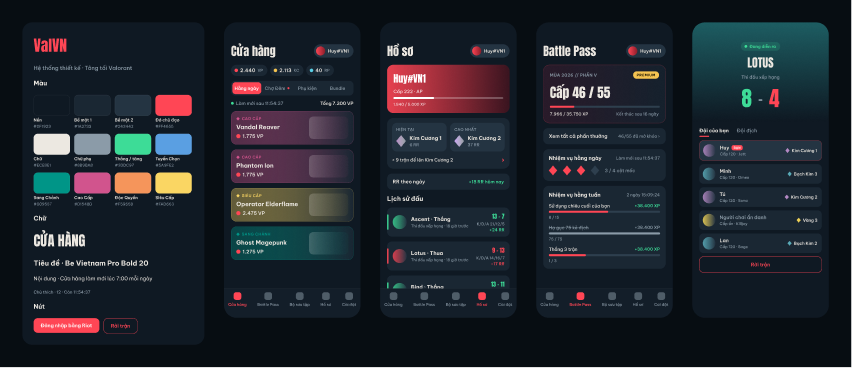
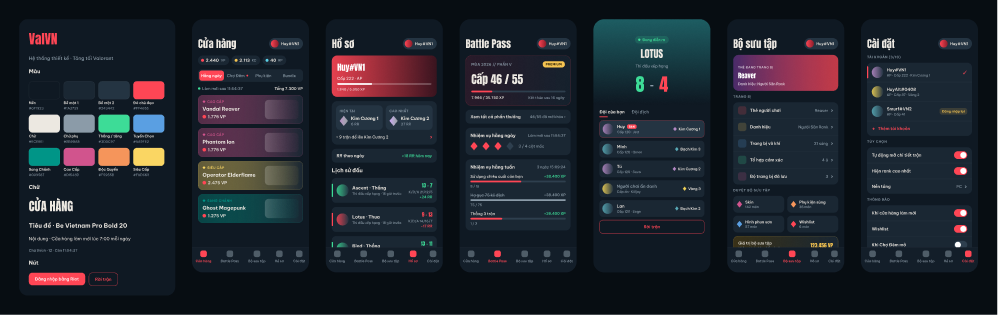
Thiết kế Figma: thêm màn Bộ sưu tập và Cài đặt
Claude-Session: https://claude.ai/code/session_016RQNRbu8t9UbHewFa5vzYg

diff --git a/docs/design/DESIGN.md b/docs/design/DESIGN.md
@@ -1,7 +1,7 @@
 # Thiết kế giao diện ValVN (Figma)
 
 File Figma: https://www.figma.com/design/AwxGtJGhawAIv4xqapRc1f
-Ảnh tổng quan: `figma-screens.png` (Hệ thống thiết kế, Cửa hàng, Hồ sơ, Battle Pass, Trận hiện tại).
+Ảnh tổng quan: `figma-screens.png` (Hệ thống thiết kế, Cửa hàng, Hồ sơ, Battle Pass, Trận hiện tại, Bộ sưu tập, Cài đặt).
 
 ## Token màu (Figma collection "ValVN Tokens")
 
@@ -33,3 +33,9 @@ File Figma: https://www.figma.com/design/AwxGtJGhawAIv4xqapRc1f
 - Cột mốc hằng ngày: hình thoi đỏ/xám.
 - Trận hiện tại: phần đầu gradient teal → nền, pill "Đang diễn ra", tên map Anton, tỉ số lớn xanh–đỏ, hàng người chơi (hàng của bạn viền đỏ + huy hiệu "BẠN"), người ẩn danh hiện "Người chơi ẩn danh" chữ muted, nút "Rời trận" viền đỏ.
 - Thanh điều hướng: nền #131E29, viền trên 6% trắng, mục đang chọn màu đỏ.
+- Bộ sưu tập: thẻ đang trang bị (gradient tím → đỏ, tên thẻ Anton), nhóm "TRANG BỊ" dạng danh sách
+  có icon màu + giá trị hiện tại + ›, lưới 2 cột "DUYỆT BỘ SƯU TẬP" (hình thoi màu + tên + số món),
+  thẻ "Giá trị bộ sưu tập" viền vàng với số VP Anton màu vàng.
+- Cài đặt: nhãn nhóm viết HOA muted; nhóm nền s1 bo 16, hàng ngăn bằng viền 6% trắng; hàng tài khoản
+  có dải đỏ 4px cho tài khoản đang dùng + ✓, huy hiệu vàng "Đăng nhập lại"; "+ Thêm tài khoản" chữ đỏ;
+  công tắc bật màu đỏ, tắt #2E3F4E.
